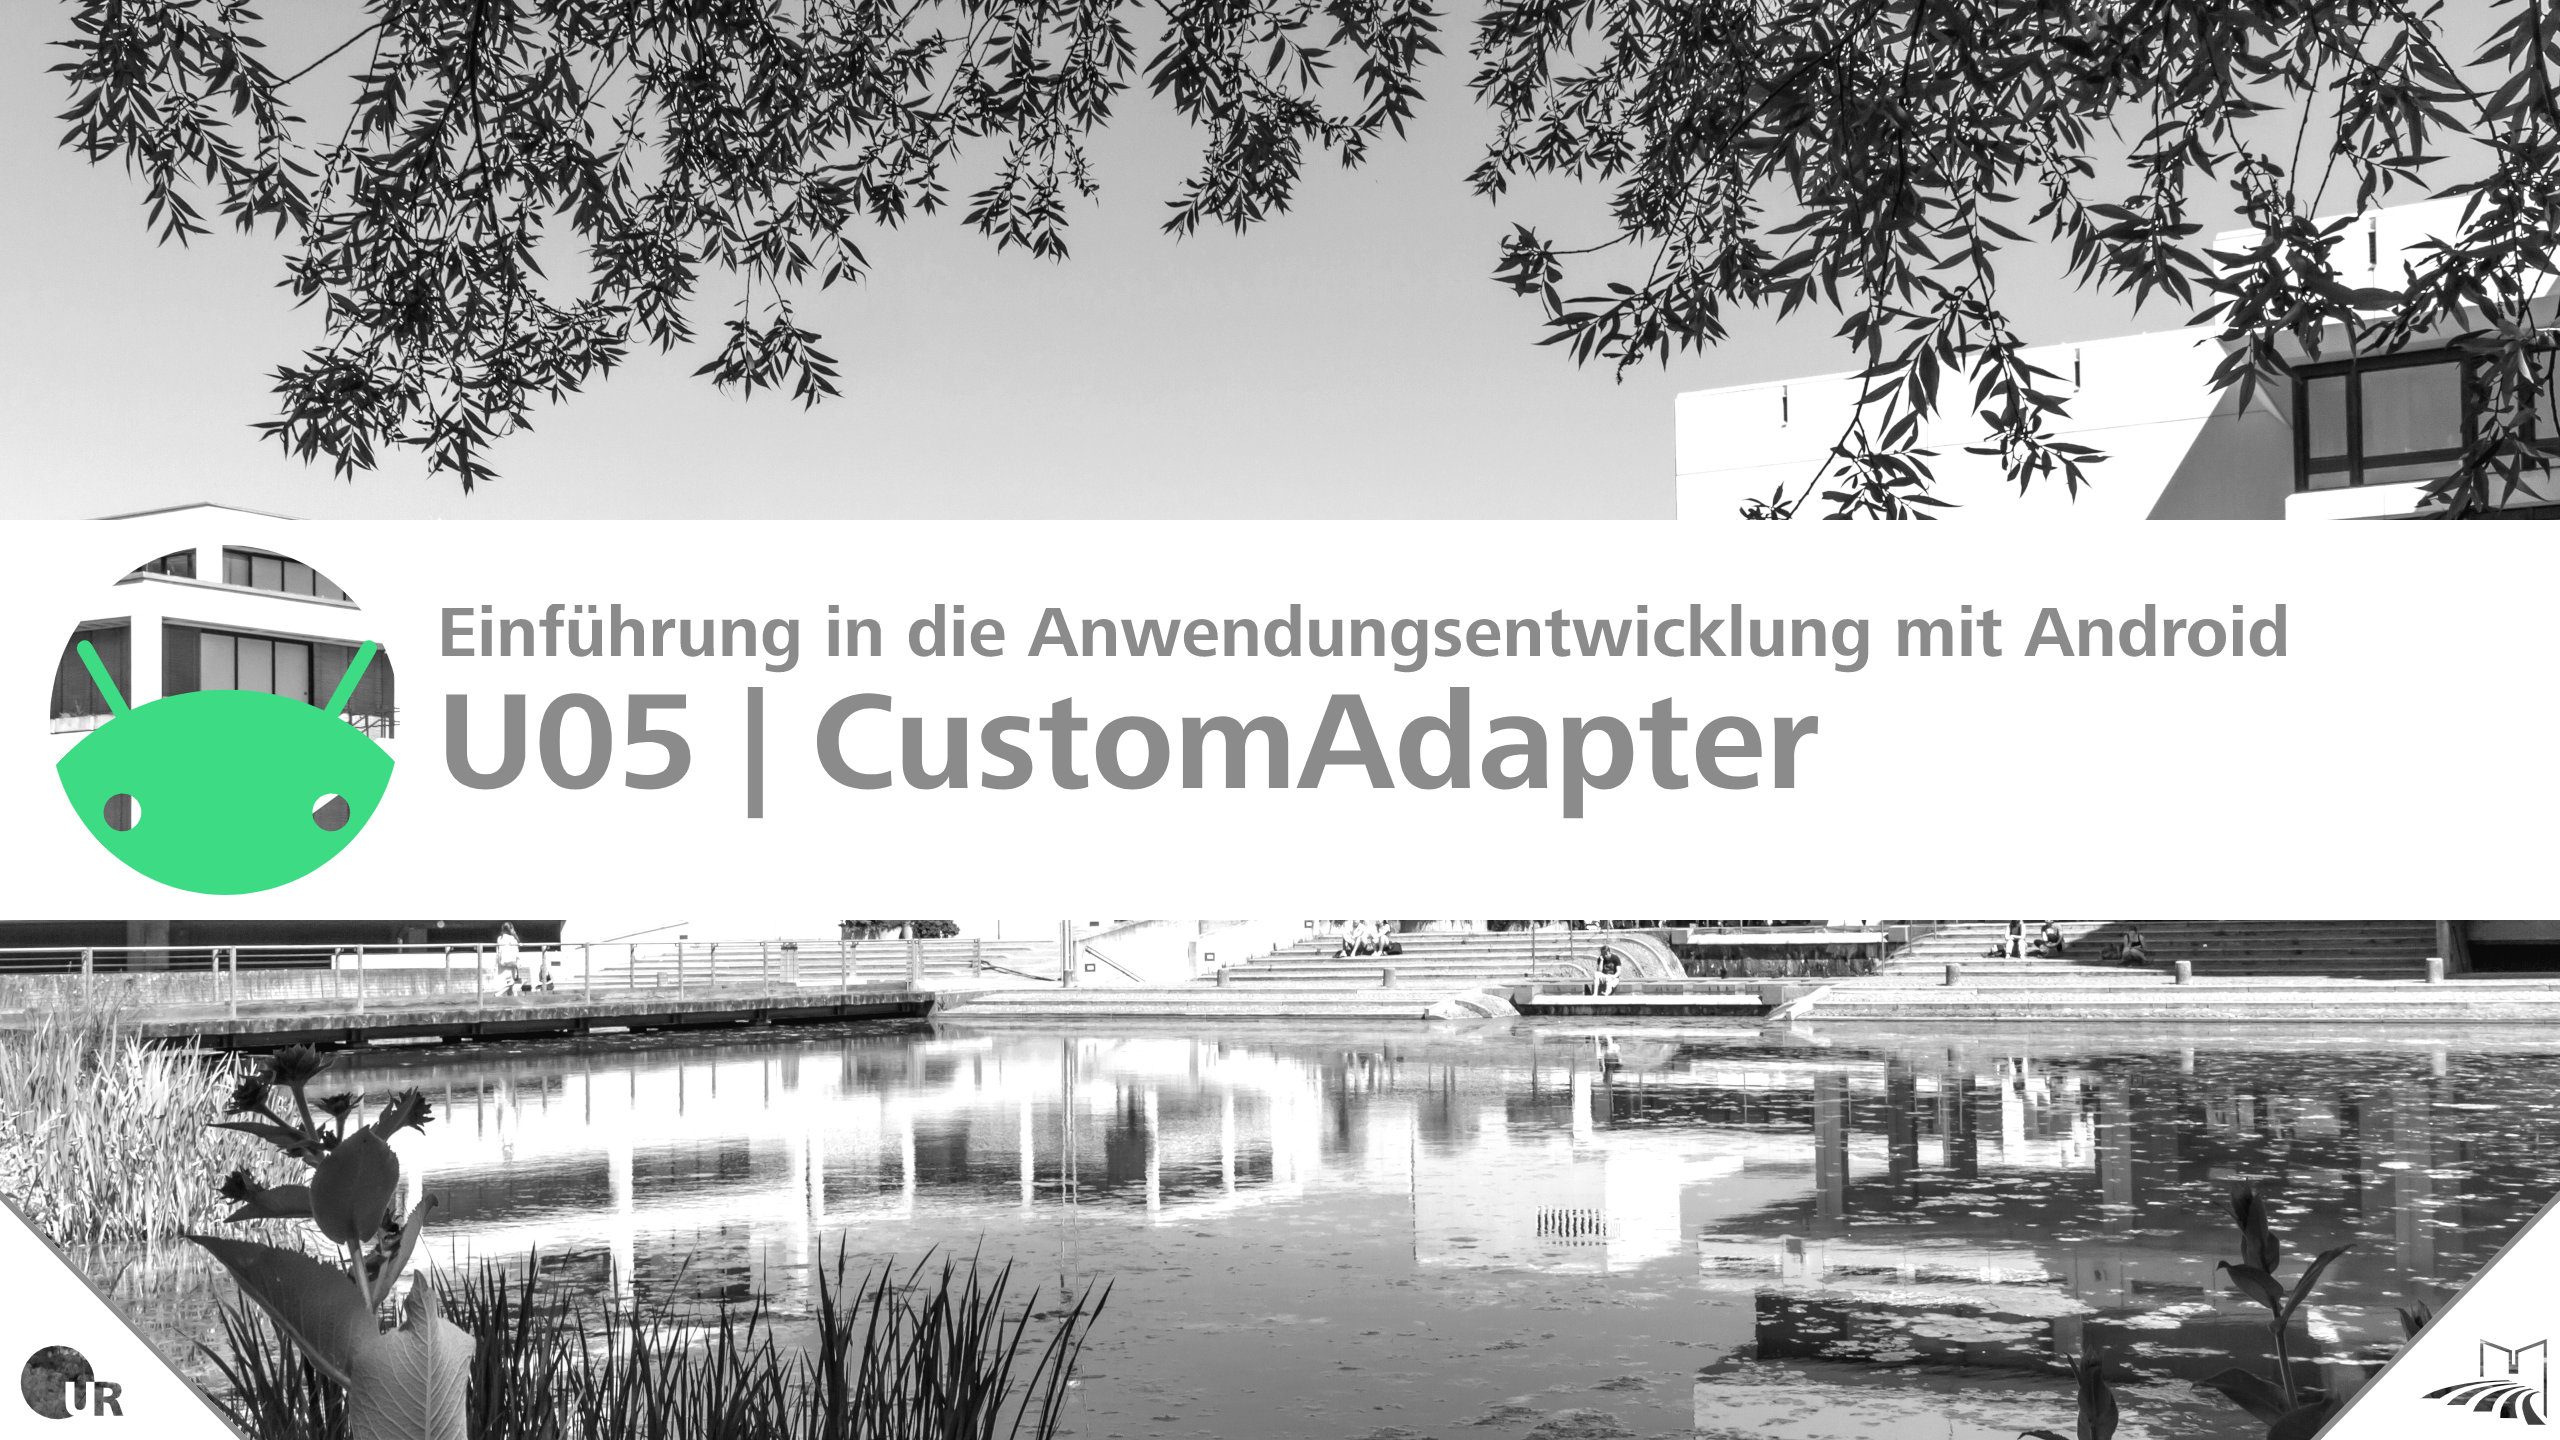
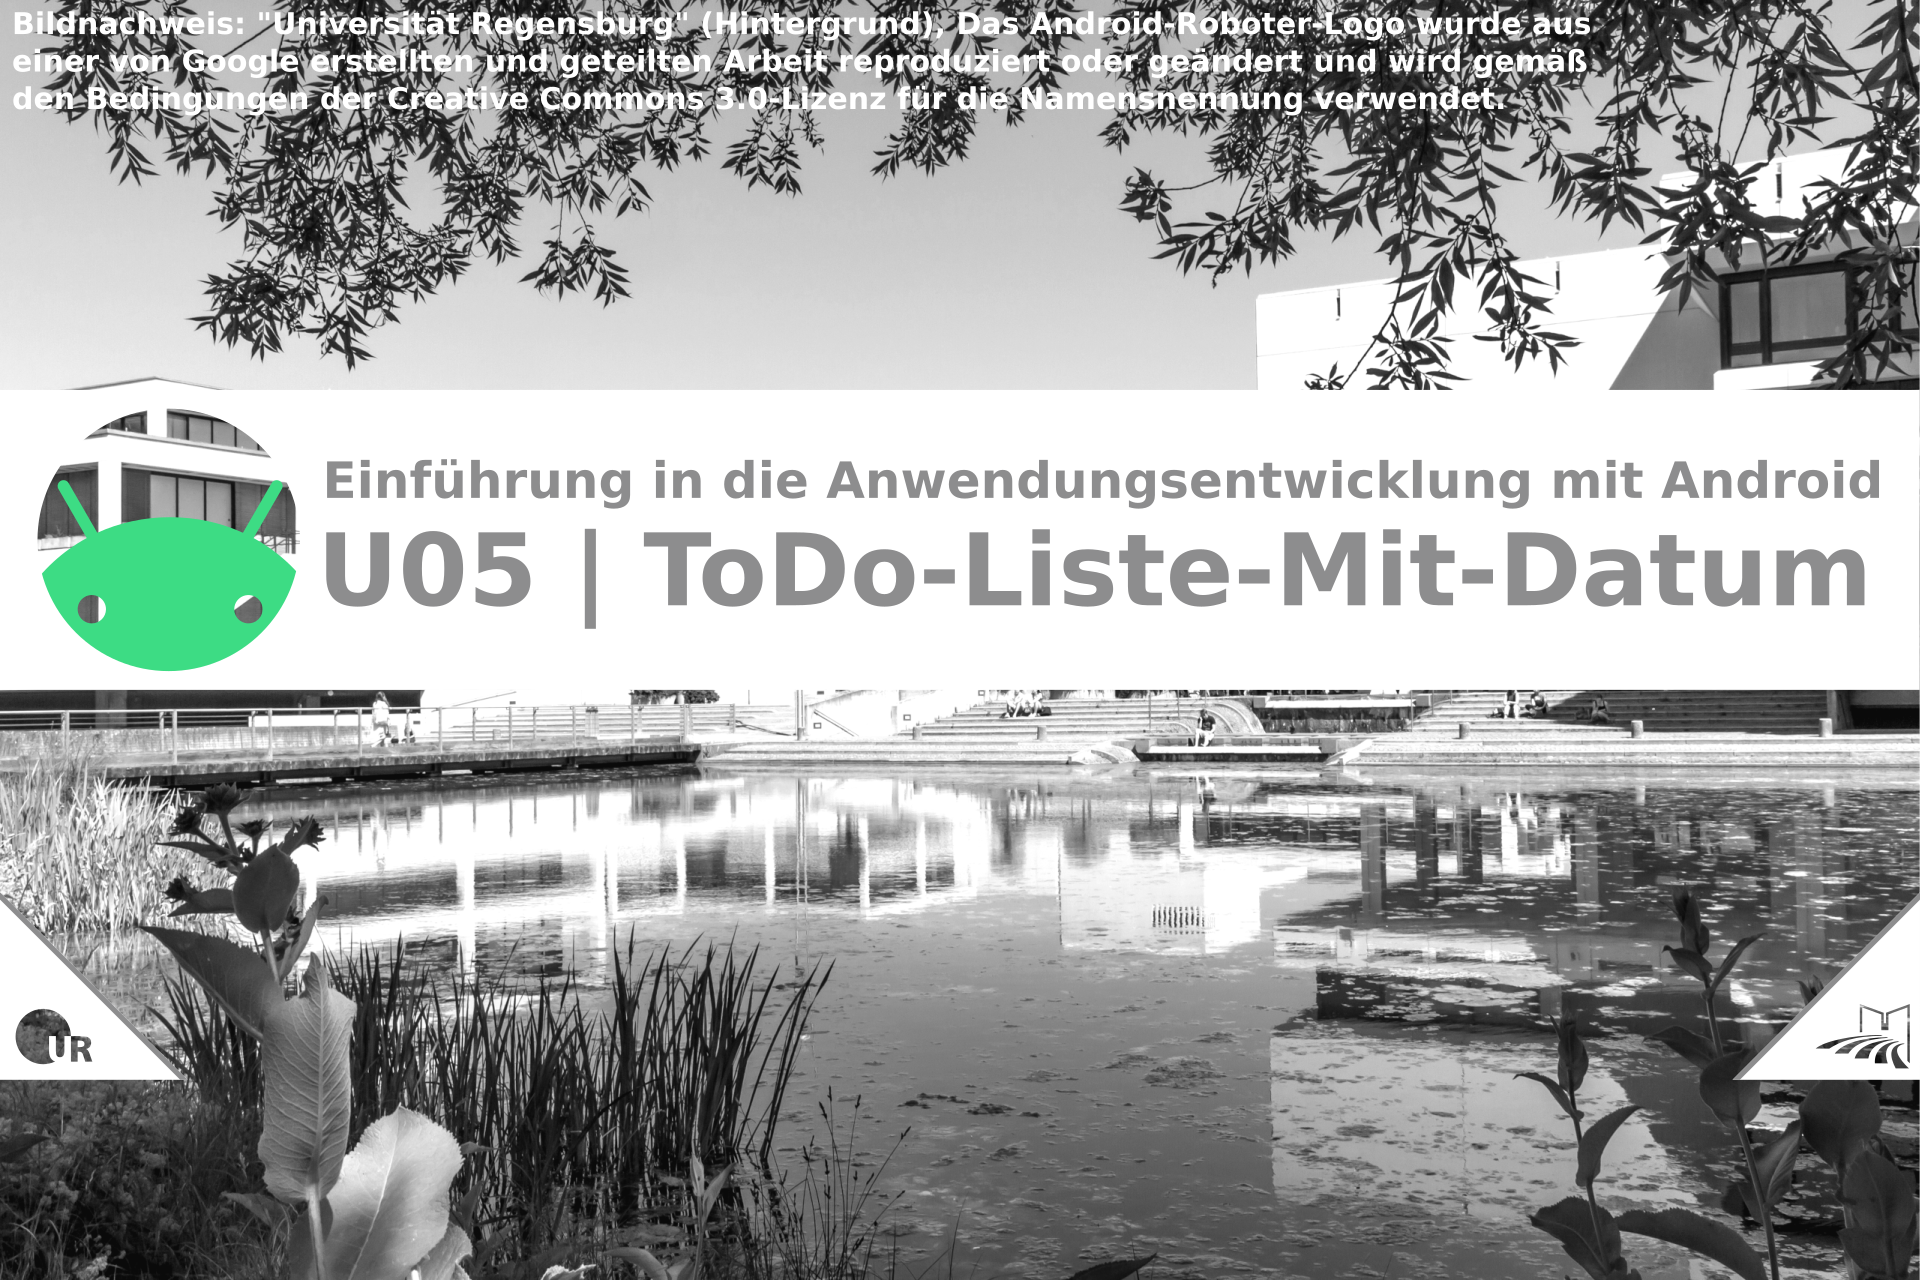
Cover und Titel angepasst

diff --git a/Readme.md b/Readme.md
@@ -1,4 +1,4 @@
-# U05 | CustomAdapter
+# U05 | ToDo-Liste-Mit-Datum
 
 ![Cover für die vierte Übungsaufgabe](./docs/cover.png)
 
